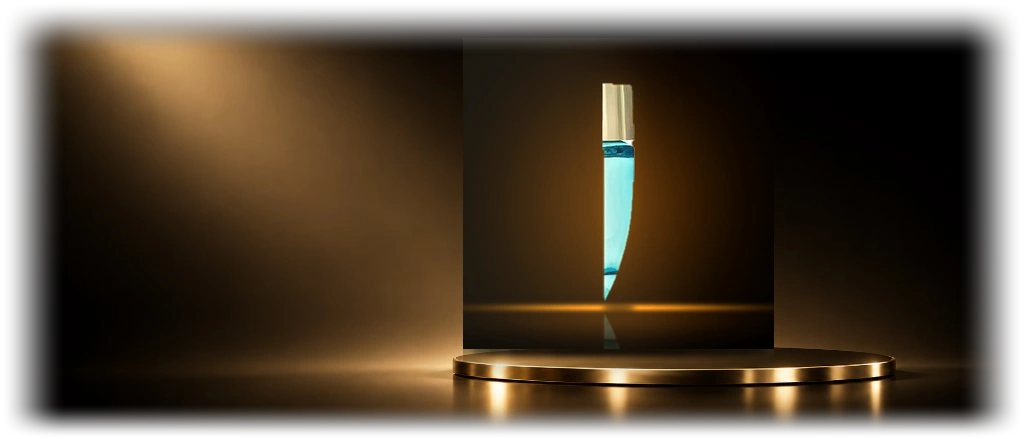
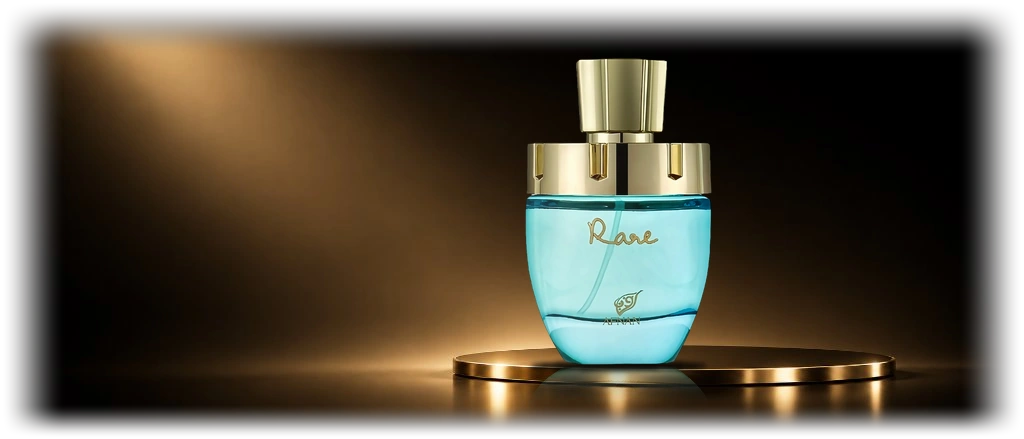
fix(stage): position bottle and box firmly on top surface of gold tray with visible front rim and reflection

Changed region(s): [[0.4375, 0.0888, 0.7812, 0.918]]

diff --git a/Al-Warda/src/components/bookdetails/BookDetails.jsx b/Al-Warda/src/components/bookdetails/BookDetails.jsx
@@ -106,7 +106,7 @@ export default function BookDetails() {
 
   const stageImageSrc = useMemo(() => {
     if (!perfume?.gtin || stageImgFailed) return null;
-    return `/assets/img/stages/${perfume.gtin}.webp?v=studio-template-v1`;
+    return `/assets/img/stages/${perfume.gtin}.webp?v=studio-template-v3`;
   }, [perfume?.gtin, stageImgFailed]);
 
   const activeImageSrc =

diff --git a/Al-Warda/scripts/composite_studio_template.py b/Al-Warda/scripts/composite_studio_template.py
@@ -1,9 +1,9 @@
 #!/usr/bin/env python3
 """
 Composite Studio Template for Al-Warda Fragrances.
-Places product flacons onto the master gold studio tray template,
-with realistic mirror reflection, contact shadow, directional spotlight illumination,
-and seamless feathering into the site background (#080605).
+Places product flacons firmly ON the master gold studio tray template,
+with realistic mirror reflection on the gold surface, contact shadow,
+directional spotlight illumination, and seamless feathering into the site background (#080605).
 """
 
 import os
@@ -32,9 +32,9 @@ def composite_on_studio_template(
         if not os.path.exists(template_path):
             template_path = "studio_template.jpg"
 
-    # 1. Load Template
+    # 1. Load Template (1024 x 439)
     tpl_raw = Image.open(template_path).convert("RGB")
-    tw, th = tpl_raw.size # 1024 x 439
+    tw, th = tpl_raw.size
     tpl = tpl_raw.copy()
 
     # 2. Load & prep product cutout
@@ -44,25 +44,27 @@ def composite_on_studio_template(
         prod = prod.crop(bbox)
     pw, ph = prod.size
 
-    # Appetizing color grading on product
-    # Enhance vibrance / saturation and contrast slightly
+    # Color grading: enhance vibrance, contrast & warmth slightly for appetizing presentation
     rgb_part = prod.convert("RGB")
     alpha_part = prod.split()[3]
-    enh_color = ImageEnhance.Color(rgb_part).enhance(1.10)
+    enh_color = ImageEnhance.Color(rgb_part).enhance(1.12)
     enh_contrast = ImageEnhance.Contrast(enh_color).enhance(1.06)
     prod = Image.merge("RGBA", (*enh_contrast.split(), alpha_part))
 
-    # 3. Position and scaling on Gold Tray
-    # Tray center X=618, top surface Y=347
+    # 3. Position and scaling ON the Gold Tray
+    # Tray center X=618
+    # Tray top surface extends from Y=344 to Y=368.
+    # Setting prod_bottom = 365 places the product firmly ON the tray surface,
+    # leaving gold tray visible behind it and the front rim and reflection in front!
     podium_cx = 618
-    podium_cy = 347
+    prod_bottom = 365
 
-    # Target height: ~71% of canvas (~312px)
-    target_ph = int(th * 0.71)
+    # Target height: ~310px (top point around Y=55, perfectly aligned with title)
+    target_ph = int(th * 0.70) # ~307px
     scale = target_ph / ph
     target_pw = int(pw * scale)
 
-    # Restrain max width if flacon is very wide
+    # Restrain max width if flacon + box is wide
     if target_pw > 380:
         scale = 380 / pw
         target_pw = int(pw * scale)
@@ -70,34 +72,33 @@ def composite_on_studio_template(
 
     prod_scaled = prod.resize((target_pw, target_ph), Image.Resampling.LANCZOS)
     prod_x = podium_cx - (target_pw // 2)
-    prod_bottom = podium_cy + 2
     prod_y = prod_bottom - target_ph
 
-    # 4. Realistic Mirror Reflection on Gold Tray
-    # Invert bottom 38% of flacon
-    refl_crop_h = int(target_ph * 0.38)
+    # 4. Realistic Mirror Reflection on the Gold Tray Surface
+    # Take bottom 45% of product
+    refl_crop_h = int(target_ph * 0.45)
     refl_crop = prod_scaled.crop((0, target_ph - refl_crop_h, target_pw, target_ph))
     refl_flipped = ImageOps.flip(refl_crop)
 
-    # Foreshorten vertically to match camera perspective on tray top
-    refl_h = int(refl_crop_h * 0.32)
+    # Perspective vertical foreshortening for angled tray view
+    refl_h = int(refl_crop_h * 0.38) # ~52px tall reflection
     refl_scaled = refl_flipped.resize((target_pw, refl_h), Image.Resampling.LANCZOS)
 
     r_arr = np.array(refl_scaled, dtype=np.float32)
-    # Vertical gradient fade
-    fade = np.linspace(0.65, 0.03, refl_h, dtype=np.float32)[:, np.newaxis, np.newaxis]
+    # Vertical gradient fade (bright near contact line 0.88, softly fading out to 0.05)
+    fade = np.linspace(0.88, 0.05, refl_h, dtype=np.float32)[:, np.newaxis, np.newaxis]
     r_arr[:, :, 3] = r_arr[:, :, 3] * fade[:, :, 0]
 
     # Metallic 24K gold tint matching the tray surface
-    gold_tint = np.array([225.0, 185.0, 85.0], dtype=np.float32)
-    r_arr[:, :, :3] = r_arr[:, :, :3] * 0.60 + gold_tint[np.newaxis, np.newaxis, :] * 0.40
+    gold_tint = np.array([230.0, 190.0, 85.0], dtype=np.float32)
+    r_arr[:, :, :3] = r_arr[:, :, :3] * 0.65 + gold_tint[np.newaxis, np.newaxis, :] * 0.35
     refl_final = Image.fromarray(np.clip(r_arr, 0, 255).astype(np.uint8), mode="RGBA")
 
-    # Tray surface ellipse mask (keeps reflection inside tray)
+    # Tray surface reflection mask
     tray_mask = Image.new("L", (tw, th), 0)
     tm_draw = ImageDraw.Draw(tray_mask)
-    tm_draw.ellipse([podium_cx - 245, podium_cy - 28, podium_cx + 245, podium_cy + 34], fill=255)
-    tray_mask = tray_mask.filter(ImageFilter.GaussianBlur(2))
+    tm_draw.ellipse([podium_cx - 290, 335, podium_cx + 290, 422], fill=255)
+    tray_mask = tray_mask.filter(ImageFilter.GaussianBlur(3))
 
     refl_canvas = Image.new("RGBA", (tw, th), (0, 0, 0, 0))
     refl_canvas.paste(refl_final, (prod_x, prod_bottom), mask=refl_final.split()[3])
@@ -109,17 +110,17 @@ def composite_on_studio_template(
     # Paste reflection onto template
     tpl.paste(refl_canvas, (0, 0), mask=refl_clipped)
 
-    # 5. Soft Contact Shadow under bottle base
+    # 5. Soft Contact Shadow under bottle base where it presses against the tray
     contact_sh = Image.new("RGBA", (tw, th), (0, 0, 0, 0))
     csh_draw = ImageDraw.Draw(contact_sh)
-    csh_draw.ellipse([prod_x + 8, prod_bottom - 3, prod_x + target_pw - 8, prod_bottom + 6], fill=(10, 6, 2, 230))
-    contact_sh = contact_sh.filter(ImageFilter.GaussianBlur(3))
+    csh_draw.ellipse([prod_x + 6, prod_bottom - 4, prod_x + target_pw - 6, prod_bottom + 5], fill=(6, 3, 1, 240))
+    contact_sh = contact_sh.filter(ImageFilter.GaussianBlur(2.5))
     tpl.paste(contact_sh, (0, 0), mask=contact_sh.split()[3])
 
-    # 6. Paste Product Flacon
+    # 6. Paste Product Flacon firmly on top of the tray
     tpl.paste(prod_scaled, (prod_x, prod_y), mask=prod_scaled.split()[3])
 
-    # 7. Directional warm sheen matching the spotlight angle
+    # 7. Directional warm sheen matching the spotlight angle from top-left
     sheen = Image.new("RGBA", (tw, th), (0, 0, 0, 0))
     sh_draw = ImageDraw.Draw(sheen)
     sh_draw.polygon(
